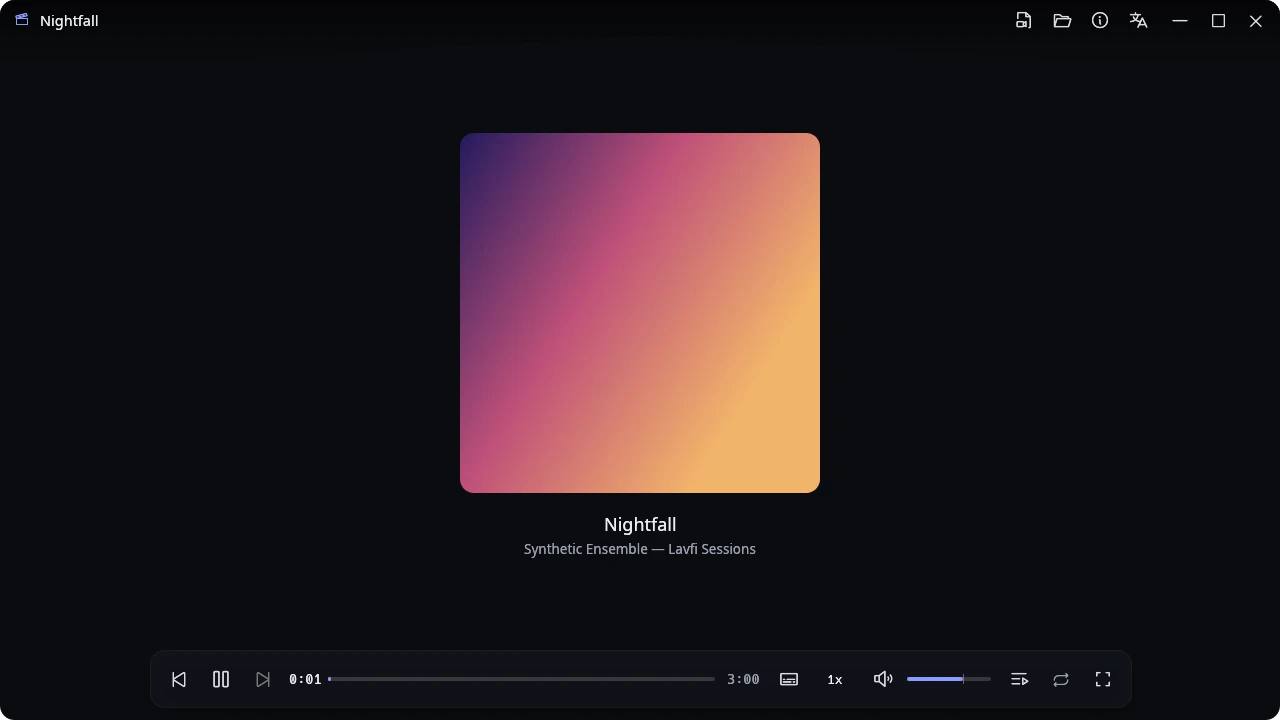
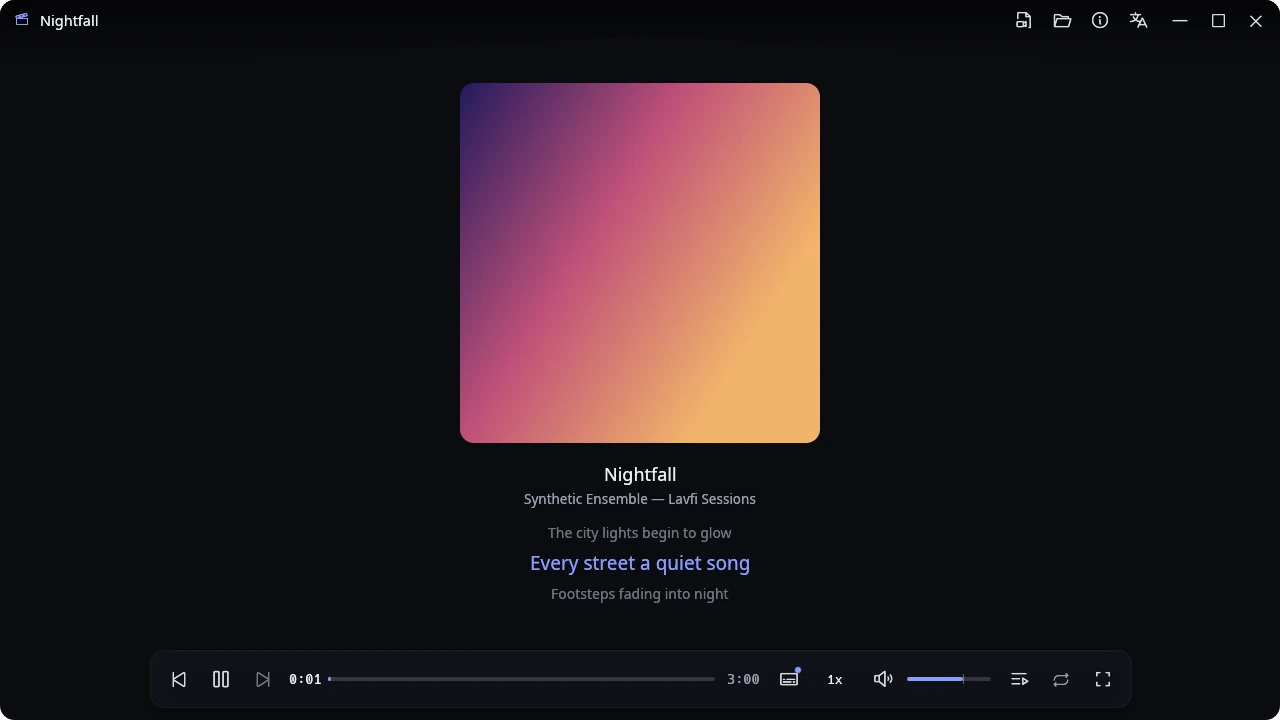
Support LRC lyrics
- subtitle::parse_lrc: time tags (several per line), [offset:], enhanced-LRC
  word tags stripped, empty lines end the previous line, last line 10 s
- .lrc is a subtitle extension: auto-loaded next to the song, droppable
- Audio-only view shows previous / current / next lyrics line
  (Player::lyrics -> SubtitleTrack::around) instead of the bottom overlay
- Tests, README / SPEC / CLAUDE.md, audio screenshots with lyrics

Changed region(s): [[0.3438, 0.6111, 0.6562, 0.8556], [0.3438, 0.0917, 0.6562, 0.2139]]

diff --git a/src/player/subtitle.rs b/src/player/subtitle.rs
@@ -1,5 +1,5 @@
-//! Text subtitles: cue storage, file parsers (SRT / ASS / WebVTT), ASS tag
-//! stripping, and charset detection for external files.
+//! Text subtitles: cue storage, file parsers (SRT / ASS / WebVTT / LRC lyrics),
+//! ASS tag stripping, and charset detection for external files.
 
 use std::path::{Path, PathBuf};
 
@@ -46,12 +46,32 @@ impl SubtitleTrack {
         self.cues.len()
     }
 
+    /// Lyrics view around `t`: the line showing now (if any), with its neighbours.
+    /// Without a current line, `prev`/`next` are the lines before/after `t`.
+    pub fn around(&self, t: f64) -> Around<'_> {
+        let hi = self.cues.partition_point(|c| c.start <= t);
+        let current = hi.checked_sub(1).filter(|&i| t < self.cues[i].end);
+        let before = current.unwrap_or(hi);
+        Around {
+            prev: before.checked_sub(1).map(|i| self.cues[i].text.as_str()),
+            current: current.map(|i| self.cues[i].text.as_str()),
+            next: self.cues.get(hi).map(|c| c.text.as_str()),
+        }
+    }
+
     /// Texts of all cues showing at `t`, in start order.
     pub fn active(&self, t: f64) -> Vec<&str> {
         let hi = self.cues.partition_point(|c| c.start <= t);
         let lo = self.cues[..hi].partition_point(|c| c.start < t - self.max_len);
         self.cues[lo..hi].iter().filter(|c| t < c.end).map(|c| c.text.as_str()).collect()
     }
+}
+
+#[derive(Debug, Default, Clone, Copy, PartialEq)]
+pub struct Around<'a> {
+    pub prev: Option<&'a str>,
+    pub current: Option<&'a str>,
+    pub next: Option<&'a str>,
 }
 
 // ---- Text cleanup --------------------------------------------------------------
@@ -190,7 +210,45 @@ pub fn parse_ass(text: &str) -> Vec<Cue> {
     cues
 }
 
-pub const SUBTITLE_EXTENSIONS: &[&str] = &["srt", "ass", "ssa", "vtt"];
+/// How long the last lyrics line stays (LRC has no end times).
+const LRC_LAST_LINE: f64 = 10.0;
+
+/// LRC lyrics: `[mm:ss.xx]line` (several time tags per line allowed), `[offset:±ms]`,
+/// enhanced-LRC word tags (`<mm:ss.xx>`) stripped. A line ends where the next one
+/// starts; an empty line (instrumental break) just ends the previous one.
+pub fn parse_lrc(text: &str) -> Vec<Cue> {
+    let mut offset = 0.0;
+    let mut lines: Vec<(f64, String)> = Vec::new();
+    for raw in text.lines() {
+        let mut rest = raw.trim();
+        let mut times = Vec::new();
+        while let Some(tag) = rest.strip_prefix('[').and_then(|r| r.split_once(']')) {
+            let (inner, after) = tag;
+            if let Some(t) = parse_timestamp(inner).filter(|_| inner.contains(':') && !inner.contains(char::is_alphabetic)) {
+                times.push(t);
+            } else if let Some(ms) = inner.strip_prefix("offset:") {
+                // Positive offset = lyrics come earlier.
+                offset = ms.trim().parse::<f64>().unwrap_or(0.0) / 1000.0;
+            }
+            rest = after.trim_start();
+        }
+        if times.is_empty() {
+            continue;
+        }
+        let text = strip_markup(rest);
+        lines.extend(times.into_iter().map(|t| (t, text.clone())));
+    }
+    lines.sort_by(|a, b| a.0.total_cmp(&b.0));
+    let mut cues = Vec::new();
+    for (i, (start, text)) in lines.iter().enumerate() {
+        let end = lines[i + 1..].iter().map(|l| l.0).find(|&t| t > *start).unwrap_or(start + LRC_LAST_LINE);
+        let shift = |t: f64| (t - offset).max(0.0);
+        cues.push(Cue { start: shift(*start), end: shift(end), text: text.clone() });
+    }
+    cues
+}
+
+pub const SUBTITLE_EXTENSIONS: &[&str] = &["srt", "ass", "ssa", "vtt", "lrc"];
 
 pub fn is_subtitle_file(path: &Path) -> bool {
     path.extension()
@@ -203,6 +261,7 @@ pub fn load_file(path: &Path) -> std::io::Result<SubtitleTrack> {
     let ext = path.extension().and_then(|e| e.to_str()).unwrap_or("").to_ascii_lowercase();
     let cues = match ext.as_str() {
         "ass" | "ssa" => parse_ass(&text),
+        "lrc" => parse_lrc(&text),
         _ => parse_srt(text.strip_prefix("WEBVTT").unwrap_or(&text)),
     };
     Ok(SubtitleTrack::from_cues(cues))
@@ -259,6 +318,27 @@ mod tests {
     }
 
     #[test]
+    fn lrc_lyrics() {
+        let lrc = "[ti:Song]\n[ar:Someone]\n[offset:+500]\n[00:01.00]First\n[00:03.50][00:10.00]Chorus <00:04.00>la\n\
+                   [00:06.00]\n[00:08.00]After break\n";
+        let cues = SubtitleTrack::from_cues(parse_lrc(lrc));
+        assert_eq!(cues.len(), 4);
+        // 0.5 s offset: everything 0.5 s earlier.
+        assert_eq!(cues.active(0.6), vec!["First"]);
+        assert_eq!(cues.active(3.2), vec!["Chorus la"]);
+        assert!(cues.active(6.0).is_empty(), "empty line = instrumental break");
+        assert_eq!(cues.active(9.0), vec!["After break"]);
+        assert_eq!(cues.active(12.0), vec!["Chorus la"]);
+        assert_eq!(cues.active(19.0), vec!["Chorus la"], "last line lasts {LRC_LAST_LINE} s");
+
+        let a = cues.around(3.2);
+        assert_eq!(a, Around { prev: Some("First"), current: Some("Chorus la"), next: Some("After break") });
+        let gap = cues.around(6.0);
+        assert_eq!(gap, Around { prev: Some("Chorus la"), current: None, next: Some("After break") });
+        assert_eq!(cues.around(0.0), Around { prev: None, current: None, next: Some("First") });
+    }
+
+    #[test]
     fn shift_jis_and_bom_detection() {
         let (sjis, _, _) = encoding_rs::SHIFT_JIS.encode("字幕テスト");
         assert_eq!(decode_text(&sjis), "字幕テスト");
@@ -283,7 +363,7 @@ mod tests {
     fn external_files_are_found_by_stem() {
         let dir = std::env::temp_dir().join(format!("rvp-sub-{}", std::process::id()));
         std::fs::create_dir_all(&dir).unwrap();
-        for n in ["movie.mkv", "movie.ja.srt", "movie.srt", "movie2.srt", "other.ass"] {
+        for n in ["movie.mkv", "movie.ja.srt", "movie.srt", "movie2.srt", "other.ass", "song.flac", "song.lrc"] {
             std::fs::write(dir.join(n), b"").unwrap();
         }
         let found: Vec<String> = find_external(&dir.join("movie.mkv"))
@@ -291,6 +371,7 @@ mod tests {
             .map(|p| p.file_name().unwrap().to_string_lossy().into_owned())
             .collect();
         assert_eq!(found, ["movie.srt", "movie.ja.srt"]);
+        assert_eq!(find_external(&dir.join("song.flac")), [dir.join("song.lrc")]);
         std::fs::remove_dir_all(&dir).unwrap();
     }
 }

diff --git a/src/app.rs b/src/app.rs
@@ -933,12 +933,14 @@ impl RvpApp {
             pos2(window.left(), window.top() + size::TITLEBAR_HEIGHT),
             pos2(window.right(), controls::bar_rect(window).top()),
         );
-        const TEXT_BLOCK: f32 = 64.0;
-        let art = (area.height() - TEXT_BLOCK - 24.0).min(area.width() - 48.0).min(360.0);
+        let lyrics = self.player.as_ref().and_then(Player::lyrics);
+        // Title + artist, plus three lyrics lines when a lyrics/subtitle track is shown.
+        let text_block = if lyrics.is_some() { 64.0 + 100.0 } else { 64.0 };
+        let art = (area.height() - text_block - 24.0).min(area.width() - 48.0).min(360.0);
         if art < 48.0 {
             return;
         }
-        let top = area.center().y - (art + TEXT_BLOCK) / 2.0;
+        let top = area.center().y - (art + text_block) / 2.0;
         let art_rect = Rect::from_center_size(pos2(area.center().x, top + art / 2.0), vec2(art, art));
 
         let p = ui.painter();
@@ -975,6 +977,16 @@ impl RvpApp {
         let sub: Vec<&str> = [info.artist.as_deref(), info.album.as_deref()].into_iter().flatten().collect();
         if !sub.is_empty() {
             line(sub.join(" — "), FontId::proportional(13.5), color::TEXT_DIM, y);
+        }
+
+        // Lyrics: previous / current / next line (multi-line cues joined).
+        if let Some(l) = lyrics {
+            let one = |t: Option<&str>| t.map(|t| t.lines().map(str::trim).collect::<Vec<_>>().join(" ")).unwrap_or_default();
+            let mut y = top + art + 64.0 + 16.0;
+            let dim = color::TEXT_DIM.gamma_multiply(0.7);
+            y += line(one(l.prev), FontId::proportional(14.0), dim, y) .max(18.0) + 8.0;
+            y += line(one(l.current), FontId::proportional(19.0), color::ACCENT, y).max(24.0) + 8.0;
+            line(one(l.next), FontId::proportional(14.0), dim, y);
         }
     }
 
@@ -1146,7 +1158,8 @@ impl eframe::App for RvpApp {
         }
 
         // Subtitles sit above the video, below the chrome; they move up while the bar is shown.
-        if let Some(text) = self.player.as_ref().and_then(Player::subtitle_text) {
+        // (Audio-only files show them as lyrics in the audio view instead.)
+        if let Some(text) = self.player.as_ref().filter(|_| !audio_only).and_then(Player::subtitle_text) {
             let video = window::fit_rect(window, self.video_aspect);
             paint_subtitle(ui, &text, video, window, controls::bar_rect(window), alpha);
         }

diff --git a/src/player/mod.rs b/src/player/mod.rs
@@ -29,6 +29,7 @@ pub use audio_out::AudioDevice;
 pub use frame::{GPU_16BIT, Matrix, PlaneLayout, VideoFrame};
 pub use hwaccel::HwDec;
 pub use subtitle::{SUBTITLE_EXTENSIONS, decode_text, is_subtitle_file};
+pub use subtitle::Around;
 use subtitle::{Cue, SubtitleTrack};
 use audio_out::AudioShared;
 use clock::Clock;
@@ -642,18 +643,26 @@ impl Player {
         self.sub_delay = (delay * 1000.0).round() / 1000.0;
     }
 
-    /// Subtitle text to show right now, if any.
-    pub fn subtitle_text(&self) -> Option<String> {
+    fn shown_track(&self) -> Option<&SubtitleTrack> {
         if !self.sub_visible {
             return None;
         }
-        let track = match self.sub_sel {
-            SubSel::Off => return None,
-            SubSel::Embedded(i) => self.sub_embedded.get(&i)?,
-            SubSel::External(i) => &self.sub_external.get(i)?.1,
-        };
-        let lines = track.active(self.position() - self.sub_delay);
+        match self.sub_sel {
+            SubSel::Off => None,
+            SubSel::Embedded(i) => self.sub_embedded.get(&i),
+            SubSel::External(i) => self.sub_external.get(i).map(|(_, t)| t),
+        }
+    }
+
+    /// Subtitle text to show right now, if any.
+    pub fn subtitle_text(&self) -> Option<String> {
+        let lines = self.shown_track()?.active(self.position() - self.sub_delay);
         (!lines.is_empty()).then(|| lines.join("\n"))
+    }
+
+    /// Lyrics (the shown subtitle track) around the current position, for audio-only files.
+    pub fn lyrics(&self) -> Option<Around<'_>> {
+        Some(self.shown_track()?.around(self.position() - self.sub_delay))
     }
 
     /// Seeks to the current position (after a track switch).

diff --git a/CLAUDE.md b/CLAUDE.md
@@ -35,7 +35,7 @@ Spec and roadmap: `SPEC.md` (Japanese). Phases are listed in SPEC §6; keep SPEC
   `Player::update` disciplines the system `Clock` to `audible_time()` (audio = master); without fresh audio the clock free-runs.
   `hold` keeps audio silent until the first video frame after open/seek is shown.
   Resampling uses swresample via raw FFI (`Resampler`), not ffmpeg-next's wrapper (its output buffer is too small when up-sampling).
-- Subtitles/tracks: `player/subtitle.rs` (cue store with dedupe, SRT/VTT/ASS parsers, ASS tag stripping, UTF-8/BOM/
+- Subtitles/tracks: `player/subtitle.rs` (cue store with dedupe, SRT/VTT/ASS/LRC parsers, ASS tag stripping, UTF-8/BOM/
   Shift_JIS detection, `find_external`). Embedded *text* subs are decoded inline in the demux thread (`decode_subtitle`;
   call `avsubtitle_free` — ffmpeg-next doesn't) and sent as `PlayerEvent::SubtitleCue`. Track switches go through
   `DemuxCmd::SelectAudio/SelectSubtitle` followed by an exact re-seek (`Player::reseek`); audio switch ships a new
@@ -48,6 +48,8 @@ Spec and roadmap: `SPEC.md` (Japanese). Phases are listed in SPEC §6; keep SPEC
 - Audio-only files: `best_video` ignores cover art (`ATTACHED_PIC`); with no video, the demuxer gets no video queue,
   no vdec thread runs, audio isn't held, and the first audible sample anchors the clock. Cover art is decoded once at
   open (`decode_cover`) and taken by the UI via `take_cover`; `app.rs::paint_audio_view` draws it with the tags.
+  Lyrics = `.lrc` handled as an external subtitle file (`subtitle::parse_lrc`); for audio-only files the shown track
+  is drawn as prev/current/next lines (`Player::lyrics` → `SubtitleTrack::around`) instead of the bottom overlay.
   Extensions: `playlist::AUDIO_EXTENSIONS` (`is_media` / `media_in` for folders).
 - Speed: `Player::set_speed` scales the system clock and sets `AudioQueue::speed`; the audio decoder runs
   `player/tempo.rs` (libavfilter `atempo`, chained for < 0.5×) only while speed ≠ 1. Each `AudioChunk` carries its

diff --git a/SPEC.md b/SPEC.md
@@ -30,6 +30,7 @@
 ### 2.1.1 音声ファイル
 - 映像のないファイル（`AUDIO_EXTENSIONS`：mp3 / flac / wav / ogg / opus / m4a など）も再生する。ジャケット画像（attached picture）は映像として扱わない
 - 画面にはジャケット画像（なければ音符のアイコン）と、タグの曲名・アーティスト・アルバムを表示する。ウィンドウの大きさは変えず、コントロールは自動で隠さない
+- 歌詞：LRC（`[mm:ss.xx]`、1 行に複数のタイムタグ、`[offset:±ms]`、拡張 LRC の `<mm:ss.xx>` は取り除く）を字幕ファイルとして扱う（同名ファイルの自動読み込み、ドロップ、字幕メニュー、遅延調整）。終了時刻は次の行の開始、最後の行は 10 秒。音声ファイルでは字幕を下に重ねず、前・現在・次の 3 行を画面に表示する
 - 音声出力が使えないときは開けない（エラーを表示する）。クロックは、開いた直後とシーク後の最初の音声で合わせる
 
 ### 2.2 再生速度
@@ -192,7 +193,7 @@ src/
 7. **字幕**（SRT と内蔵テキスト字幕、CJK フォント）とトラック選択
 8. **HW デコード**（VAAPI）
 9. **多言語対応**（Fluent、OS ロケールからの自動選択、実行中の切り替え）
-10. **音声ファイル**（音声だけのファイルの再生、ジャケット画像とタグの表示）
+10. **音声ファイル**（音声だけのファイルの再生、ジャケット画像とタグの表示、LRC 歌詞）
 
 各フェーズの終わりに動く状態でコミットする。
 

diff --git a/README.md b/README.md
@@ -18,7 +18,7 @@ A video and music player for Linux, built with Rust and [egui](https://github.co
 
 ### Subtitles and tracks
 
-Switch subtitle and audio tracks from the menu or with `S` / `A`. SRT / ASS / WebVTT, both embedded and external files
+Switch subtitle and audio tracks from the menu or with `S` / `A`. SRT / ASS / WebVTT (and LRC lyrics), both embedded and external files
 (Shift_JIS is detected too). Subtitle timing can be shifted in 0.1 s steps.
 
 ![Subtitle and audio track menu](docs/images/en-tracks.webp)
@@ -32,7 +32,8 @@ Open a folder to play all of its videos. Repeat (one / all), shuffle, drag to re
 ### Music and other audio files
 
 Audio-only files (MP3, FLAC, Ogg/Opus, M4A, WAV…) play too, showing the embedded cover art with the title, artist and
-album. Folders and playlists may mix videos and music.
+album. Synced lyrics (`.lrc` next to the song, or dropped onto the window) scroll line by line below. Folders and
+playlists may mix videos and music.
 
 ![Playing a FLAC file with cover art](docs/images/en-audio.webp)
 
